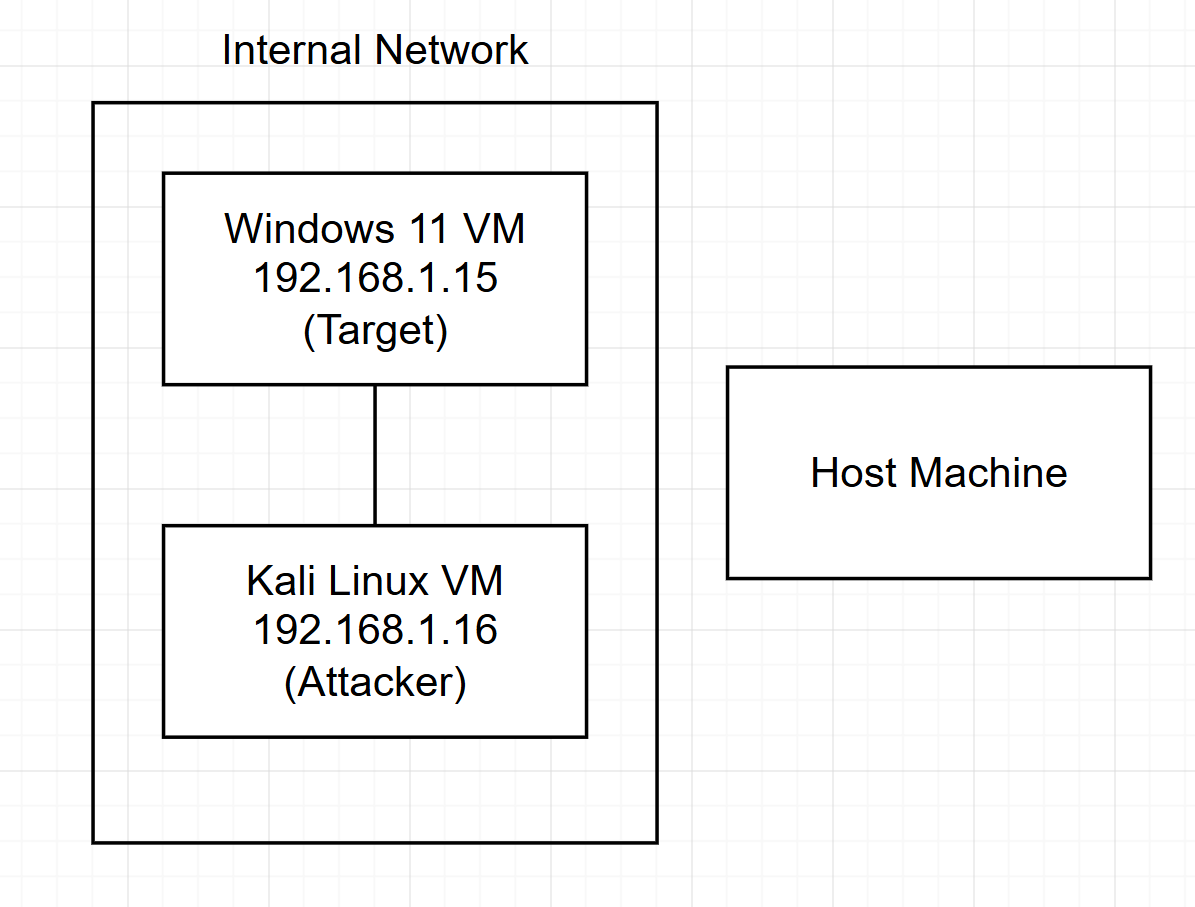
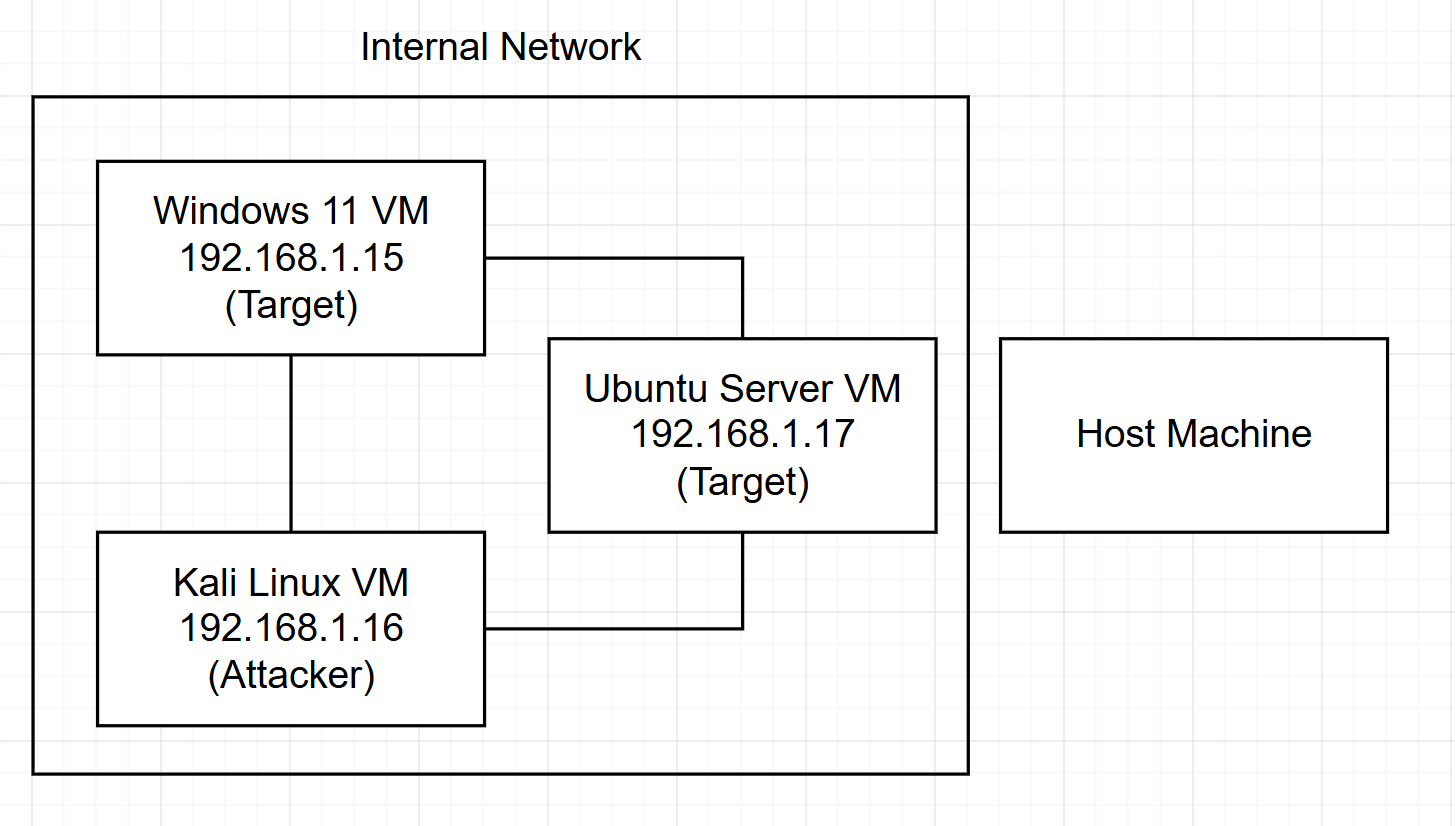
Project 1. SSH hardening

Changed region(s): [[0.0, 0.0303, 0.9908, 0.9383]]

diff --git a/SSH-hardening/Project-SSH-Hardening-README.md b/SSH-hardening/Project-SSH-Hardening-README.md
@@ -1,0 +1,120 @@
+# SSH Hardening with key-based authentication
+
+The purpose of this lab project is to reinforce the Ubuntu Server VM by enabling key-pair authentication. Key-pair authentication is a login method that does not require a password and instead, relies on a mathematical function to ensure user confidentiality and integrity. This authentication method protects the server from brute-force login attacks. In this project, Kali Linux will be used to conduct a brute force attack before and after SSH hardening to showcase the difference in security. 
+
+As such, in order to reinforce the Ubuntu VM these actions could be taken:
+| Action | Reason |
+|------|---------------|
+| Create Non-root sudo user| Creating a sudo user to login to for root access allows for better tracking and accountability since root logins are anonymous.|
+| Use fail2ban| This is an intrusion prevention software tool that allows for monitoring of system logs. It can detect threats and respond by banning the IP address of the threat actor |
+| Switch to SSH key auth| Key-pair authentication is especially strong and practically impossible to brute-force. A public key sits on the server, a private key sits on user machines, a mathematical function is used to check to authenticate the key-pair. |
+| Harden sshd_config| Disabling root login and password authentication ensures that the previous steps are the only way to gain access to sudo access and user access. |
+| Default-deny firewall | Default-deny is the cybersecurity framework and the most common firewall configuration. The firewall denies all network traffic unless explicitly allowed. This ensures that all allowed traffic is explicitly tracked and known. |
+
+
+## Software/Tools Used
+Kali Linux:
+- hydra
+- nmap
+
+Ubuntu Server:
+- fail2ban
+
+## Create Sudo User
+```bash
+sudo adduser labadmin # creates a user called labadmin
+sudo usermod -aG sudo labadmin # adds labadmin to sudo group
+```
+## Hydra Brute-force
+This step uses hydra, an open source logon cracker, and in this project, it is used to brute-force through labadmin. *DISCLAIMER, this only simulates how a brute-force attack at the simplest level. *
+```zsh
+hydra -l labadmin -P passwordlist.txt ssh://192.168.1.17
+```
+Result:
+
+![alt text](attachments/hydraresult.png)
+
+## Fail2Ban setup
+```bash
+sudo apt install fail2ban
+sudo nano /etc/fail2ban/jail.local
+```
+Apply the config:
+```bash
+sudo systemctl restart fail2ban
+```
+```
+[sshd]
+enabled = true
+maxretry = 5
+bantime = 600
+```
+Proof:
+```zsh
+hydra -l labadmin -P passwordlist.txt ssh://192.168.1.17
+```
+![alt text](attachments/image-2.png)
+
+Hydra was used once again, with 80+ password entries. Hydra was unsuccessful in finding a match even though it should have due to fail2ban.
+```bash
+sudo fail2ban-client status sshd
+```
+![alt text](attachments/image.png)
+
+According to fail2ban logs, the Kali VM's ip was banned.
+
+![alt text](attachments/image-1.png)
+
+Hence when we try hydra once more, connection was refused.
+
+## Generate key-pair authentication key
+In the Kali Linux VM:
+```zsh
+ssh-keygen -t ed25519 # Generates key
+ssh-copy-id labadmin@192.168.1.17 # Sends key to labadmin
+ssh labadmin@192.168.1.17 # Login to labadmin to test if key pairing worked
+```
+
+## Disable password auth and root user login
+```bash
+sudo nano /etc/ssh/sshd_config
+```
+```
+PermitRootLogin no
+PasswordAuthentication no
+```
+```bash
+sudo systemctl reload ssh
+```
+
+Result:
+
+![alt text](attachments/loginAttempt.png)
+
+## Firewall Configuration
+```bash
+sudo ufw default deny incoming
+sudo ufw default allow outgoing
+sudo ufw allow 22/tcp
+sudo ufw enable
+```
+
+Check:
+
+![alt text](attachments/ufwstatus.png)
+
+
+## Conclusion
+Key-Pair authentication is much more secure than password login since it is practically immune to brute-force attacks. In this project, hydra was used to brute-force the non-root sudo user, labadmin, in which the password was compromised. After installing fail2ban and enabling a max password retry number of 5, fail2ban was able to prevent further brute-force attacks and banned Kali VM's ip address. After this, password authentication and root login was disabled entirely to further lock down the Ubuntu server. In doing so, it denies all devices that does not have a private key that matches with a stored public key from Ubuntu. Moreover, the firewall was configured to be default deny which denies all network traffic by default, only allowing explicit traffic that was configured to be allowed. Now, port 22 is the only port open. Overall, key cybersecurity and networking concepts were shown in this lab project. 
+
+- Basic Firewall configuration (default deny using ufw)
+- Blue team: Intrusion Prevention Systems proficicency (the use of fail2ban)
+- Red team: Brute-force password attack familiarity (the use of hydra)
+- Key-pair authentication familiarity
+- Using a sudo user to track all user activity for root activity
+- General SSH hardening (disabling password auth and root login)
+- Intermediate Linux familiarity (User Permission Management)
+
+
+## Next Step
+The next lab project could tackle more on firewalls using iptables instead of ufw, and using the nmap tool to scan for open ports. 

diff --git a/README.md b/README.md
@@ -1,9 +1,9 @@
 # Penetration Testing HomeLab Setup
 
-This is a fundamental homelab setup built using **VirtualBox** that manages two virtual machines: **Windows 11** and **Kali Linux**. The VMs can communicate with each other and are connected using an internal network configuration, isolated from the host device itself and the home network. This setup ensures a secure, safe, and a self-contained environment for experimentation, and security testing towards gaining hands-on experience in red and blue teaming. 
+This is a fundamental homelab setup built using **VirtualBox** that manages three virtual machines: **Windows 11**, **Kali Linux**, and **Ubuntu Server**. The VMs can communicate with each other and are connected using an internal network configuration, isolated from the host device itself and the home network. This setup ensures a secure, safe, and a self-contained environment for experimentation, and security testing towards gaining hands-on experience in red and blue teaming. 
 
 ## Overview
-This lab demonstrates key cybersecurity concepts and networking fundamentals. An internal network setup isolates the virtual machines in their own network without access to the internet nor the host device. This lab sets up an attacker machine (Kali linux VM) or the threat actor, and the target machine (Windows VM). This builds the foundation of future penetration testing experiments. Network isolation, static IP configuration, cross-platform networking, and cybersecurity lab safety were all demonstrated.
+This lab demonstrates key cybersecurity concepts and networking fundamentals. An internal network setup isolates the virtual machines in their own network without access to the internet nor the host device. This lab sets up an attacker machine (Kali Linux VM) or the threat actor, and the target machines (Windows VM and Ubuntu Server VM). This builds the foundation of future penetration testing experiments. Network isolation, static IP configuration, cross-platform networking, and cybersecurity lab safety were all demonstrated.
 
 
 ## Environment
@@ -12,19 +12,20 @@ This lab demonstrates key cybersecurity concepts and networking fundamentals. An
 | Hypervisor       | VirtualBox                        |
 | VM 1             | Windows 11                        |
 | VM 2             | Kali Linux                        |
+| VM 3             | Ubuntu Server                     |
 | Network mode     | Internal Network (`homelabnet`)   |
 | Addressing       | Static IPv4, 192.168.1.0/24 subnet|
 
 ## Network Architecture
 
 ![Network Architecture](Attachments/network-architecture.png)
-
 ## Setup and Network Configuration
 
 ### 1. Prerequisites   
 - Install VirtualBox
 - Download Windows 11 iso file
-- Download Kali linux iso file
+- Download Kali Linux iso file
+- Download Ubuntu Server iso file
 
 ### 2. OS Installation
 In VirtualBox, for each VM:
@@ -37,11 +38,16 @@ For Windows:
 - Storage: 60 GB
 - Video MEM: 128 MB
 
-For Kali linux: 
+For Kali Linux: 
 - RAM: 4 GB
 - CPU cores: 4
 - Storage: 80 GB
 - Video MEM: 128 MB
+
+For Ubuntu Server:
+- RAM: 2 GB
+- CPU cores: 2
+- Storage: 25 GB
 
 *resource allocations may be changed*
 
@@ -54,30 +60,53 @@ Go to Settings > Network > Adapter 1
 - Apply changes
 
 ### 4. Assign Static IP
-- For Windows, set static IPv4 address by: Settings > Network and Internet > Ethernet > config: manual, IP assignment: 192.168.1.15 , subnet mask: 255.255.255.0
-- For Kali Linux, ethernet > edit connections > wired connection > settings >ipv4 settings > set method to manual > add address: ip: 192.168.1.16, netmask: 24
 
-*quick TEMPORARY command terminal setup*
+**Windows:** Settings > Network and Internet > Ethernet > config: manual, IP assignment: 192.168.1.15, subnet mask: 255.255.255.0
+
+**Kali Linux:** ethernet > edit connections > wired connection > settings > IPv4 settings > set method to manual > add address: IP: 192.168.1.16, netmask: 24
+
+**Ubuntu Server:** Static IP is assigned by editing the Netplan configuration file:
 ```bash
-sudo ip addr add 192.168.1.16/24 dev eth0
-sudo ip link set eth0 up
+sudo nano /etc/netplan/00-installer-config.yaml
 ```
+Set the configuration:
+```yaml
+network:
+  version: 2
+  ethernets:
+    enp0s3:
+      dhcp4: false
+      dhcp6: false
+      addresses:
+        - 192.168.1.17/24
+```
+Apply the changes:
+```bash
+sudo netplan apply
+```
+No gateway or DNS is required as the internal network has no internet access.
 
 ### 5. Ping Test
-In order to check if both virtual machines are indeed in the same internal network and have been configured properly, we must conduct a ping test.
+In order to check if all virtual machines are indeed in the same internal network and have been configured properly, we must conduct a ping test.
 
-In the Windows 11 VM powershell terminal:
+In the Windows 11 VM PowerShell terminal:
 ```powershell
 ping 192.168.1.16
+ping 192.168.1.17
 ```
+
 Expected output:
+
 ![ping results](Attachments/ping-test-output.png)
 
+**add result here**
+
 ## Next Steps
-The next steps for this homelab is to use network reconnaissance tools that true red teamers use. These include Nmap to discover open ports leading to vulnerabilities, Wireshark packet capturing to analyse the traffic between the two VMs, and ARP scanning to discover devices in a LAN. It is crucial to practice these skills towards better familiarity and proficiency in using pen testing tools and softwares.
+The next steps for this homelab is to harden the Ubuntu Server VM and prove the lockdown works. This involves creating a non-root sudo user, configuring key-only SSH authentication, setting up a default-deny firewall using `ufw`, and deploying `fail2ban` to detect and block brute-force attacks. The hardening will be verified by attacking the Ubuntu Server from Kali using `hydra` and confirming the ban across three independent log sources.
 
 ## Developed Proficiencies
 - Applied network segmentation principles and configured an isolated internal network in VirtualBox
-- Configured manual IP addresses
-- Conducted a cross-platform connectivity check using the ping command (ICMP) between Windows 11 and Kali Linux
+- Configured manual IP addresses across Windows, Kali Linux, and Ubuntu Server
+- Configured permanent static IP on Ubuntu Server using Netplan
+- Conducted a cross-platform connectivity check using the ping command (ICMP) between all three VMs
 - Developed Linux proficiency through exposure of linux distros and CLI usage